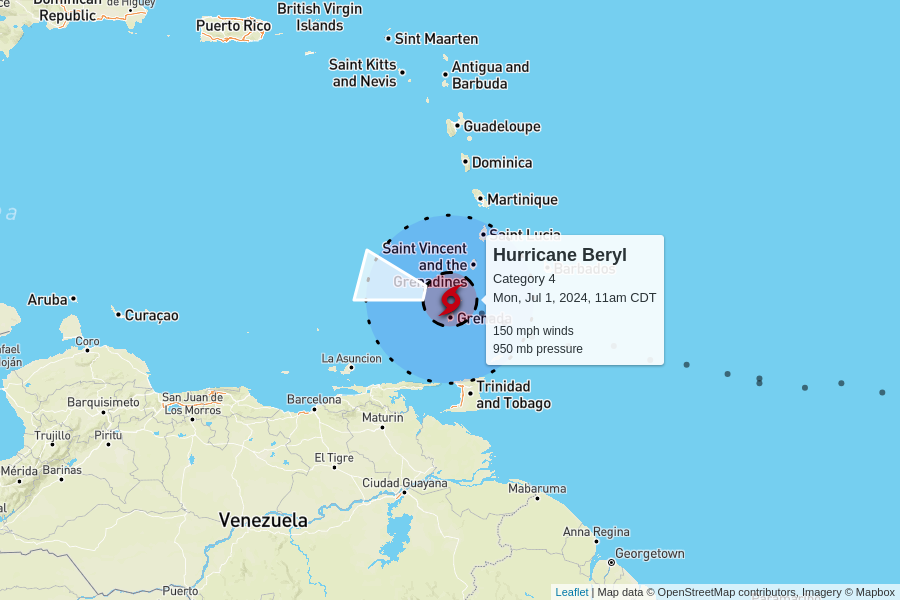
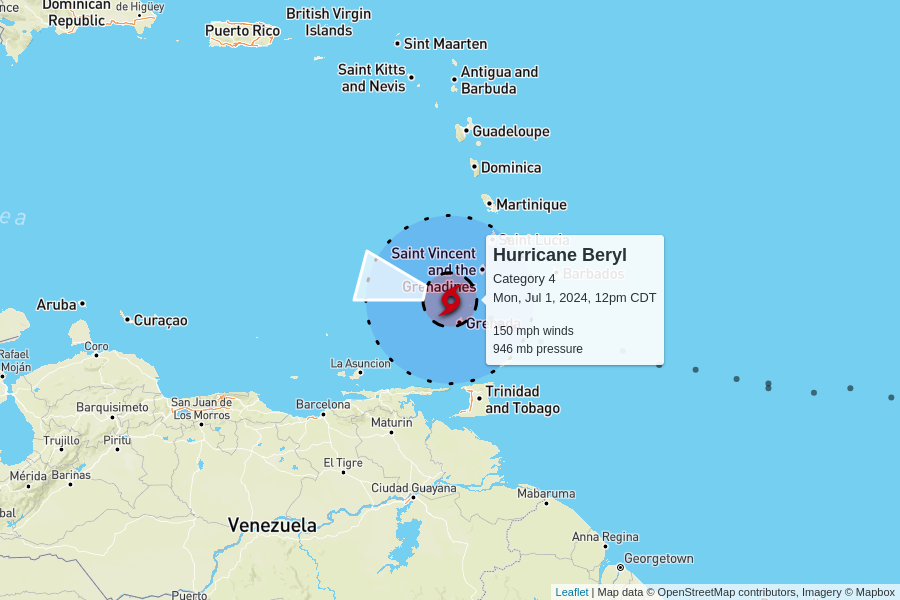
automatic update

diff --git a/docs/index.html b/docs/index.html
@@ -102,7 +102,7 @@
         <td colspan="6" class="storm category-4" >
           <h2>
             Hurricane Beryl - Category 4
-            <p class="updated">last updated <span data-time>2024-07-01T16:00:00.000Z</span></p>
+            <p class="updated">last updated <span data-time>2024-07-01T17:00:00.000Z</span></p>
           </h2>
         </td>
       </tr>
@@ -118,7 +118,7 @@
       <tr>
         <td class="spacer"></td>
         <td>150 mph<br>0 mph since last update</td>
-        <td>950 mb<br>0 mb since last update</td>
+        <td>946 mb<br>-4 mb since last update</td>
         <td>
           20 mph to the west-northwest
           <br/>
